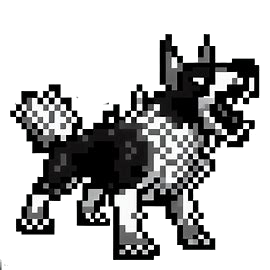
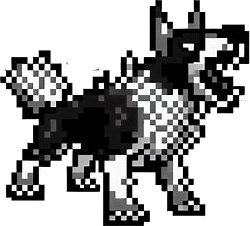
i bored so i code

diff --git a/Obj.py b/Obj.py
@@ -23,6 +23,7 @@ class Player:
         self.rect = Rect(x,y,40,40)
         self.sped = 300
         self.direction = "up"
+        self.bullets = 10
     def update(self, delta):
         keys = key.get_pressed()
         movex = keys[K_RIGHT] - keys[K_LEFT]
@@ -47,11 +48,12 @@ class Dog:
         dodge = Rect(self.rect.x-range_dodge,self.rect.y-range_dodge,range_dodge*2+self.rect.width,range_dodge*2+self.rect.height)
         movex = sign(plr.rect.x - self.rect.x)
         movey = sign(plr.rect.y - self.rect.y)
-        self.rect.x += movex * self.speed * delta
-        self.rect.y += movey * self.speed * delta
         bullet = dodge.collidelist(bullets)
         if bullet >= 0:
             if bullets[bullet].direction in ["right","left"]:
-                self.rect.y += sign(self.rect.y-bullets[bullet].rect.y) * self.speed*5 * delta
+                self.rect.y += sign(self.rect.y-bullets[bullet].rect.y) * self.speed*2.2 * delta
             if bullets[bullet].direction in ["up","down"]:
-                self.rect.x += sign(self.rect.x-bullets[bullet].rect.x) * self.speed*5 * delta
+                self.rect.x += sign(self.rect.x-bullets[bullet].rect.x) * self.speed*2.2 * delta
+        else:
+            self.rect.x += movex * self.speed * delta
+            self.rect.y += movey * self.speed * delta

diff --git a/game.py b/game.py
@@ -7,6 +7,10 @@ display.set_caption("Cyberstrike Chronicles")
 plr = Player(0,0) # set player pos and declare var
 bullets = []
 dogs = [Dog(100,100)]
+dog_img = image.load("res/iog.png")
+dog_img1 = image.load("res/iog1.png")
+dog_img = transform.scale(dog_img, (40,40))
+dog_img1 = transform.scale(dog_img1, (40,40))
 
 gameRunnning = True
 while gameRunnning:
@@ -17,15 +21,16 @@ while gameRunnning:
         if ev.type == KEYDOWN:
             if ev.key == K_ESCAPE:
                 gameRunnning = False
-            if ev.key == K_SPACE:
+            if ev.key == K_SPACE and plr.bullets > 0:
                 bullets.append(Bullet(plr.rect.centerx-2, plr.rect.centery-2, plr.direction))
+                plr.bullets -= 1
             if ev.key == K_e:
                 dogs.append(Dog(100,100))
     plr.update(delta)
     window.fill([255,255,255])
     for dog in dogs:
         dog.update(delta,plr,bullets)
-        draw.rect(window, (0,0,255), dog.rect)
+        window.blit(dog_img,dog.rect.topleft)
         if dog.rect.collidelist(bullets) >= 0:
             bullets.pop(dog.rect.collidelist(bullets))
             dogs.remove(dog)
